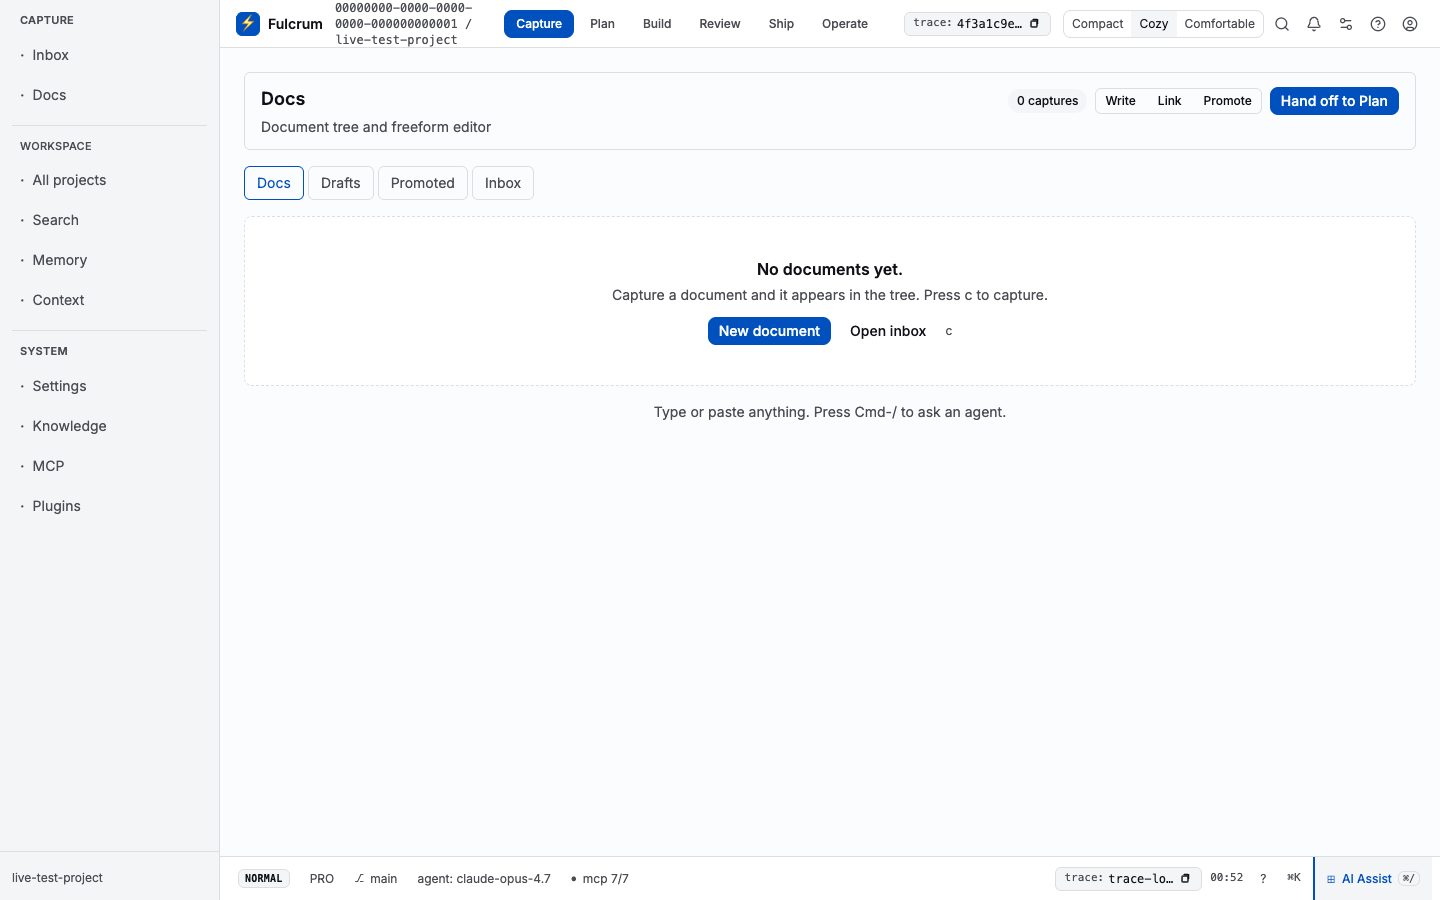
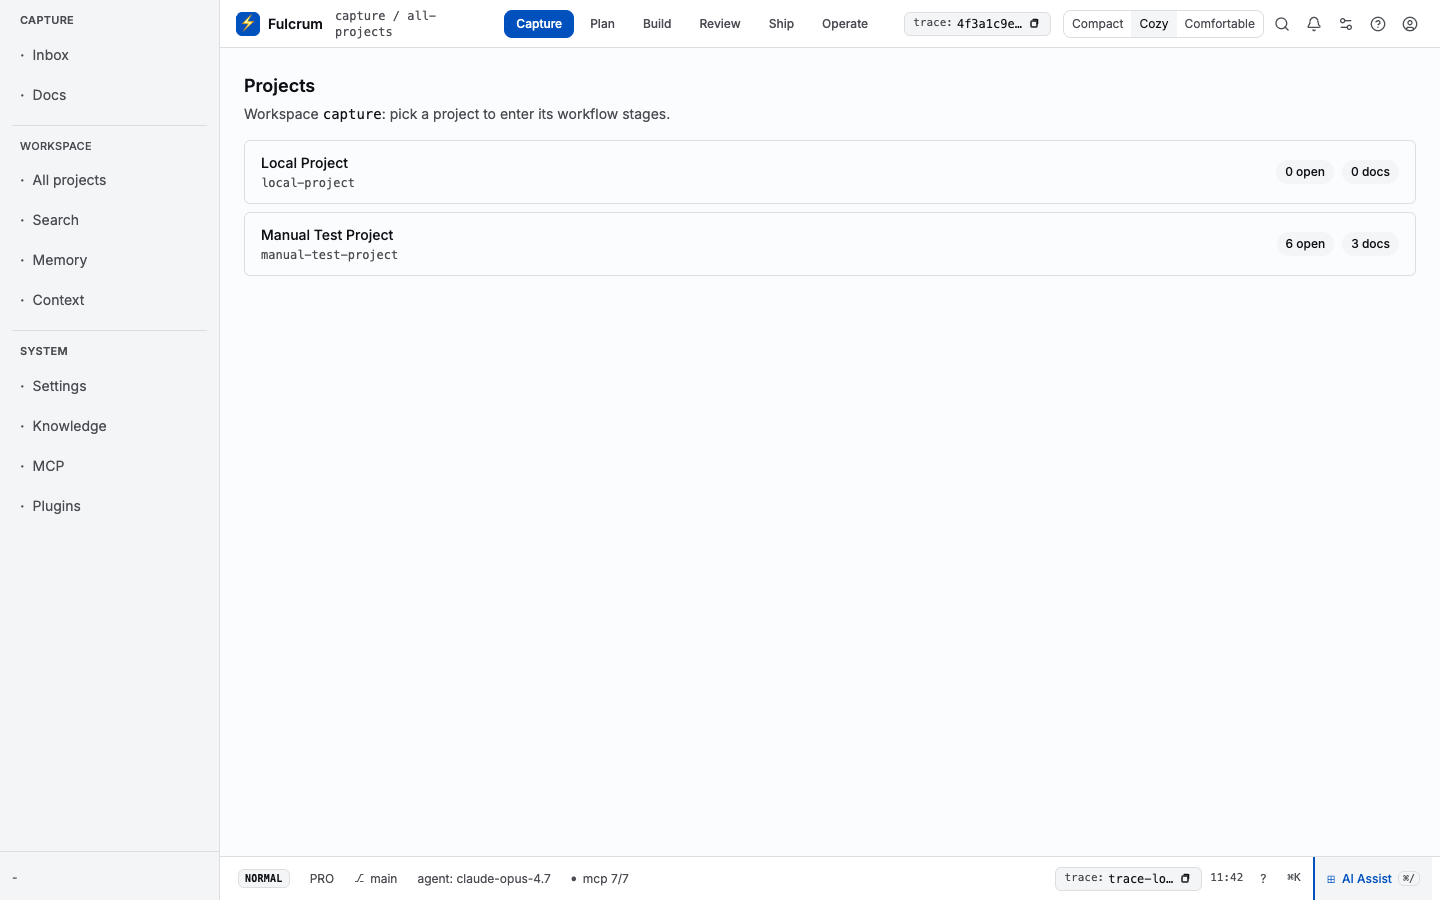
fix(web,plan-capture): manual audit screenshots + README plan/capture sections
Audit pass for Plan stage + Capture stage routes (manual-audit-2026-05-23).

Routes audited:
- /planning, /plan-session, /plan-prompts, /plan-prototypes,
  /plan-templates, /plan-review — all render via canonical-stage
  308-redirect to /<ws>/projects/<projId>/plan[/<sub>]. All workbenches
  render rich content (9 prompts, 12 templates, 2 live + 1 archived
  prototypes, live planning session with 3 traffic-stream events,
  plan-review tripane with embedded prototype + comments).
- /capture — 308-redirects to /capture/projects (project picker).
- /capture/inbox, /capture/docs — correctly 404 at workspace level;
  capture intake is project-scoped at /<ws>/projects/<projId>/capture
  /{drafts,promoted,inbox}.
- /inbox — workspace notification inbox (notification-center service),
  empty-state 'No notifications.' until rules match.
- /onboarding — first-run wizard step 1 (workspace name = local).

Seeded:
- 3 docs via /api/v1/docs on manual-test-project: 'Auth rewrite RFC',
  'Migration plan v2', 'Sprint 1 retrospective notes'. Capture stage
  Docs view now renders 3 captures with title + body preview + Suggest /
  Discuss row actions.

Screenshots refreshed:
- 01-capture, 15-inbox, 35-onboarding, 40-stage-capture,
  41-stage-capture-drafts, 42-planning, 42-stage-capture-promoted,
  43-plan-prompts, 43-stage-capture-inbox, 44-stage-plan,
  45-plan-prototypes, 46-plan-templates, 47-plan-session, 48-plan-review.

README sections added:
[…]

diff --git a/docs/manuals/web/README.md b/docs/manuals/web/README.md
@@ -440,6 +440,250 @@ Automation rules. Header `Automation rules` + `Use Template` + `+ Add Rule`. Sea
 
 ![Project · backlog with sprint](../screenshots/web/72-proj-backlog.png) ![Project · modules](../screenshots/web/74-proj-modules.png) ![Project · intake](../screenshots/web/75-proj-intake.png)
 
+## Capture stage routes
+
+Capture is the first stage in the Capture→Operate workflow rail. Every
+flat `/capture*` workspace path resolves under the project-scoped Capture
+WorkflowStage (`/<ws>/projects/<projId>/capture[/<sub>]`); the four
+sub-views (`docs`, `drafts`, `promoted`, `inbox`) are tabs inside the
+same workbench, not standalone routes. Empty-state copy lives in
+`apps/web/src/lib/components/app/capture-stage.ts`. The Capture sidebar
+group exposes Inbox + Docs (project-scoped) above Workspace / System.
+
+### `/capture`
+
+[![Capture stage projects picker](../screenshots/web/01-capture.png)](../screenshots/web/01-capture.png)
+
+Workspace-level `/capture` 308-redirects to `/capture/projects` — a
+project picker that lets the operator choose which project's Capture
+WorkflowStage to enter. Rows show project name, slug, `<N> open` task
+count, and `<N> docs` count. Clicking a row navigates to
+`/<ws>/projects/<slug>/capture` (the canonical Docs view).
+
+| Action | How (web) | How (CLI) | Notes |
+|---|---|---|---|
+| Pick project | row click | `fulcrum project use <slug>` | Navigates to Capture WorkflowStage |
+| Filter | `Search` box (header) | `fulcrum project list` | Client-side substring |
+
+### `/<ws>/projects/<projId>/capture` — Docs view
+
+[![Capture · docs (3 captures seeded)](../screenshots/web/40-stage-capture.png)](../screenshots/web/40-stage-capture.png)
+
+Document tree + freeform editor — the default Capture sub-view. Header
+shows `Docs · Document tree and freeform editor`, the running capture
+count (`<N> captures`), and the universal action strip (`Write`, `Link`,
+`Promote`, `Hand off to Plan`). With seeded data the audit dataset
+renders 3 captures (Auth rewrite RFC, Migration plan v2, Sprint 1
+retrospective notes) each with per-row `Suggest` and `Discuss` mode
+buttons. Reads `/api/v1/docs?orgId=…&projectId=<slug>` via
+DocumentPublicApiController.
+
+| Action | How (web) | How (CLI) | Notes |
+|---|---|---|---|
+| Create | `Write` button / `New document` empty-state | `fulcrum doc create --project <slug> --title <t>` | POSTs `/api/v1/docs` |
+| Edit | row click → `/docs/<id>` | `fulcrum doc patch <id>` | PATCH `/api/v1/docs/{id}` |
+| Link | `Link` button | `fulcrum doc link <docId> <targetId>` | POSTs `/links` |
+| Promote | `Promote` button | `fulcrum doc promote <id>` | Moves draft → Plan or Build |
+| Hand off | `Hand off to Plan` button | `fulcrum plan handoff --doc <id>` | Opens Plan with `source_doc_id` preset |
+
+### `/<ws>/projects/<projId>/capture/drafts`
+
+[![Capture · drafts (empty)](../screenshots/web/41-stage-capture-drafts.png)](../screenshots/web/41-stage-capture-drafts.png)
+
+Unsent captures not yet promoted — half-formed ideas that have not been
+committed to Plan or Build. Empty-state copy: `No drafts yet.` /
+`Drafts collect half-formed ideas. Press c to capture, or hand off from
+intake.` Primary action `New draft`; secondary `Open inbox` (keyboard
+shortcut `c`).
+
+| Action | How (web) | How (CLI) | Notes |
+|---|---|---|---|
+| Create | `New draft` button | `fulcrum capture draft create` | POSTs draft to docs API |
+| Promote | row `Promote` action | `fulcrum capture promote <id>` | Moves draft → Docs / Plan |
+| Discard | row context menu | `fulcrum capture delete <id>` | DELETE `/api/v1/docs/{id}` |
+
+### `/<ws>/projects/<projId>/capture/promoted`
+
+[![Capture · promoted (empty)](../screenshots/web/42-stage-capture-promoted.png)](../screenshots/web/42-stage-capture-promoted.png)
+
+Captures that moved into a plan or run. Empty-state copy: `No promoted
+captures yet.` / `Promotions appear here once a draft moves into Plan or
+Build. Promote one from Drafts to start.` Primary action `Open Drafts`;
+secondary `Learn more` (keyboard shortcut `g d`).
+
+| Action | How (web) | How (CLI) | Notes |
+|---|---|---|---|
+| Open Drafts | `Open Drafts` button | `fulcrum capture drafts list` | Navigates to Drafts tab |
+| Open source | row click | `fulcrum capture open <id>` | Opens originating capture |
+
+### `/<ws>/projects/<projId>/capture/inbox`
+
+[![Capture · inbox (clear)](../screenshots/web/43-stage-capture-inbox.png)](../screenshots/web/43-stage-capture-inbox.png)
+
+Intake queue: snooze, accept, decline. Empty-state copy: `Inbox is
+clear.` / `New captures arrive here for triage. Capture something to
+start.` Primary action `New capture`; secondary `Open Drafts` (keyboard
+shortcut `c`).
+
+The workspace-level `/inbox` is a different surface (notification
+center), and `/capture/inbox` and `/capture/docs` at the workspace level
+correctly 404 — capture intake is project-scoped.
+
+| Action | How (web) | How (CLI) | Notes |
+|---|---|---|---|
+| Capture | `New capture` button / press `c` | `fulcrum capture create` | POSTs intake item |
+| Snooze | row Snooze button | `fulcrum capture snooze <id>` | PATCH intake state |
+| Accept | row Accept button | `fulcrum capture accept <id>` | Promotes to Drafts |
+| Decline | row Decline button | `fulcrum capture decline <id>` | Closes the intake item |
+
+### `/inbox` — workspace notification inbox
+
+[![Workspace inbox](../screenshots/web/15-inbox.png)](../screenshots/web/15-inbox.png)
+
+Workspace-level notification inbox (notification-center service). Two
+tabs: `For you` (notifications fanned out from rule-engine matches) and
+`My activity` (audit-log activity for the current user). Empty-state
+copy is `No notifications.` when no rules have matched. Distinct from
+the Capture stage Inbox tab, which is the per-project capture intake.
+
+| Action | How (web) | How (CLI) | Notes |
+|---|---|---|---|
+| Mark all read | `Mark all read` button | `fulcrum notify mark-all-read` | POSTs `/api/v1/notifications/mark-all-read` |
+| Mark one read | row click / form `markRead` action | `fulcrum notify mark-read <id>` | PATCH `/api/v1/notifications/<id>` |
+| Manage rules | `/settings/notifications` | `fulcrum notify rules list` | Rule CRUD UI |
+| View activity | `My activity` tab | `fulcrum audit query --user $USER` | Reads `/api/v1/audit/query` |
+
+### `/onboarding` — first-run wizard
+
+[![First-run onboarding](../screenshots/web/35-onboarding.png)](../screenshots/web/35-onboarding.png)
+
+Two-step first-run wizard. Step 1 (`What's your workspace called?`)
+seeds the workspace name (default `local`). Step 2 picks the first
+project. Subsequent visits redirect into the canonical Capture stage.
+
+| Action | How (web) | How (CLI) | Notes |
+|---|---|---|---|
+| Set workspace name | `Workspace name` input + `Continue` | `fulcrum workspace patch --name <n>` | PATCH `/api/v1/workspaces/me` |
+| Skip | `Continue` with default | n/a | `local` workspace persists |
+
+## Plan stage routes
+
+Plan is the AI-Assist planning workbench between Capture and Build.
+Every flat `/planning`, `/plan-session`, `/plan-prompts`,
+`/plan-prototypes`, `/plan-templates`, and `/plan-review` workspace path
+308-redirects to the canonical project-scoped Plan WorkflowStage at
+`/<ws>/projects/<projId>/plan[/<sub>]`. Sub-views (`missions`,
+`sessions`, `review`, `prompts`, `prototypes`, `templates`) are
+projections of the same plan session, not standalone routes. The Plan
+sidebar group exposes Sessions / Missions / Reviews / Prototypes /
+Templates / Prompts.
+
+### `/planning`
+
+[![Plan session workbench](../screenshots/web/42-planning.png)](../screenshots/web/42-planning.png)
+
+Persistent planning workbench. Three-column layout: the left column is
+the active session card (`AI Assist planning` with `running` /
+`paused` badge, plan id, trace id, Pause / Resume / Clear sessions
+actions). Centre column carries the workbench: `Source doc ID`,
+`Session ID`, `Trace ID` inputs, a `Prompt` textarea, Clear / Submit
+controls, and the `Traffic stream` log of session/update, tool_call,
+and agent_message_chunk events. Right column is the workspace dock
+(Shell / Files / Browser / Plan / Cost tabs) with the trace summary.
+Reads the canonical plan session via the workflow-coordination service.
+
+| Action | How (web) | How (CLI) | Notes |
+|---|---|---|---|
+| Submit prompt | `Submit prompt` button | `fulcrum plan submit --doc <id> --prompt <p>` | POSTs to plan session |
+| Pause | session card `Pause` | `fulcrum plan pause <sessionId>` | PATCH session state |
+| Resume | session card `Resume session` | `fulcrum plan resume <sessionId>` | PATCH session state |
+| Clear sessions | session card `Clear sessions` | `fulcrum plan reset` | Wipes local plan-session cache |
+| Open trace | dock `Open trace summary` link | `fulcrum trace show <traceId>` | Navigates to `/trace/<id>` |
+
+### `/plan-session`
+
+Alias for `/planning` — 308-redirects to
+`/<ws>/projects/<projId>/plan` (same canonical workbench).
+
+[![Plan · session (same workbench)](../screenshots/web/47-plan-session.png)](../screenshots/web/47-plan-session.png)
+
+### `/plan-prompts`
+
+[![Plan · prompt library (9 prompts)](../screenshots/web/43-plan-prompts.png)](../screenshots/web/43-plan-prompts.png)
+
+`Prompt library · 9 prompts · synced from project + global`. Reusable
+prompts for agent hand-off, tagged by step, model, and policy. Header
+search box + tag pills (`All`, `Capture`, `Plan`, `Build`, `Review`,
+`Ship`, `Operate`, `My prompts`). Each row carries title, two-line
+preview, model badge (`opus` / `sonnet`), tag, usage count + relative
+age, and the universal ModeRow (`Manual` / `Play` / `Discuss` /
+`AI Assist`). Audit dataset shows: Plan from a capture, Critique a PR
+for correctness, Repro a bug from a trace, Migration risk analysis,
+Draft release notes, STRIDE threat model, Flame-graph hypothesis, +2.
+
+| Action | How (web) | How (CLI) | Notes |
+|---|---|---|---|
+| Search | `Search prompts…` input | `fulcrum plan prompts list --query <q>` | Substring filter |
+| Filter by step | tag pill click | `fulcrum plan prompts list --step <s>` | Tag-scoped list |
+| Run | per-row `▶ Play` | `fulcrum plan prompts run <id>` | Dispatches an agent run |
+| Discuss | per-row `💬 Discuss` | `fulcrum plan prompts comment <id>` | Opens comment thread |
+| Edit | row → detail editor | `fulcrum plan prompts patch <id>` | PATCH prompt body |
+
+### `/plan-prototypes`
+
+[![Plan · prototypes (2 live)](../screenshots/web/45-plan-prototypes.png)](../screenshots/web/45-plan-prototypes.png)
+
+`Prototypes · 2 live · 1 archived`. Throwaway scaffolds attached to a
+plan; live only until the plan ships. Audit dataset shows: Offline-first
+token refresh (3 screens, last edit 1h ago), Cross-surface trace stitch
+(2 panes, last edit 3h ago), Board layout (archived). Each card has
+`Open`, `Duplicate`, and the universal ModeRow.
+
+| Action | How (web) | How (CLI) | Notes |
+|---|---|---|---|
+| Open | card `Open` button | `fulcrum plan prototypes open <id>` | Navigates to `/plan/review` tripane |
+| Duplicate | card `Duplicate` button | `fulcrum plan prototypes dup <id>` | Forks the scaffold |
+| Archive | per-card context menu | `fulcrum plan prototypes archive <id>` | PATCH state |
+| Embed in review | from `/plan-review` `Add prototype` | `fulcrum plan review attach <id>` | Threaded into plan-review tripane |
+
+### `/plan-templates`
+
+[![Plan · templates (12 templates)](../screenshots/web/46-plan-templates.png)](../screenshots/web/46-plan-templates.png)
+
+`Plan templates · 12 templates · 4 used this week`. Reusable plan
+structures for new plans. Pick one to skip the cold-start prompt /
+approach / breakdown / acceptance criteria. Header carries `+ New
+template`. Left rail filters by Category (Refactor, New feature, Bug
+investigation, Scheme migration, Spike / prototype, Security review,
+Performance investigation, Library upgrade, Extract a service) and
+Owner. Each card carries a `Create from template` button.
+
+| Action | How (web) | How (CLI) | Notes |
+|---|---|---|---|
+| Create from template | card `Create from template` | `fulcrum plan create --template <id>` | Seeds a new plan session |
+| New template | header `+ New template` | `fulcrum plan template create` | Opens editor |
+| Filter | Category / Owner left rail | `fulcrum plan templates list --category <c>` | Server-side filter |
+
+### `/plan-review`
+
+[![Plan · review tripane](../screenshots/web/48-plan-review.png)](../screenshots/web/48-plan-review.png)
+
+Plan + Prototype + Comments tripane review. The canonical "what-it-does"
+plan-review surface. Left pane: the plan content (Why / Approach /
+Risks). Middle pane: the embedded live prototype preview. Right pane:
+the threaded review comments + active sessions device matrix (Mac, iPad
+Air, iPhone 15). Header carries plan title + meta strip (`auth-rewrite`,
+last edit timestamp), `Comments`, `AI Assist`, plus the universal
+ModeRow (`Manual` / `▶ Play` / `💬 Discuss` / `⊞ AI Assist`).
+
+| Action | How (web) | How (CLI) | Notes |
+|---|---|---|---|
+| Add prototype | pane header `+ Add prototype` | `fulcrum plan review attach <prototypeId>` | Pulls from `/plan-prototypes` |
+| Comment | right pane comment input | `fulcrum plan review comment add <text>` | POSTs threaded comment |
+| Resolve | comment row `Resolve` | `fulcrum plan review comment resolve <id>` | PATCH comment state |
+| Approve | header `Approve plan` | `fulcrum plan review approve <planId>` | PATCH plan to approved |
+| Discuss | universal mode `💬 Discuss` | `fulcrum plan review play <planId>` | Opens scoped AcpDrawer |
+
 ## Build stage routes (tasks, boards, runs, orchestration)
 
 All build-stage URLs live on the workspace and consume the public API at
